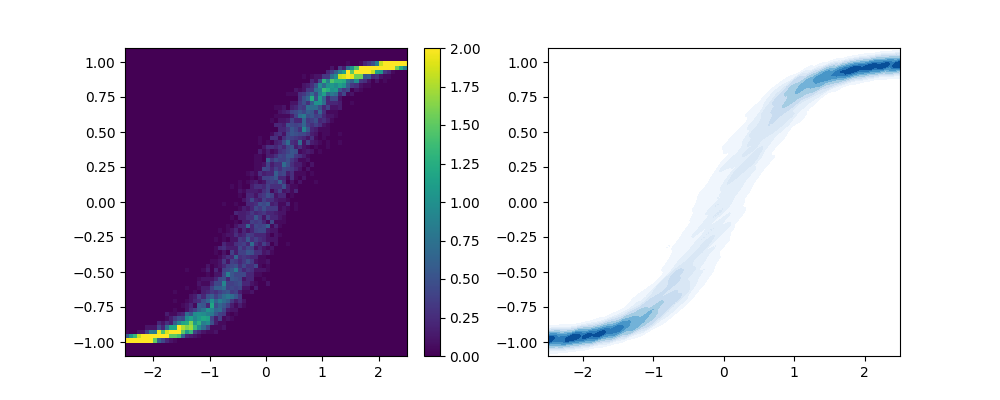
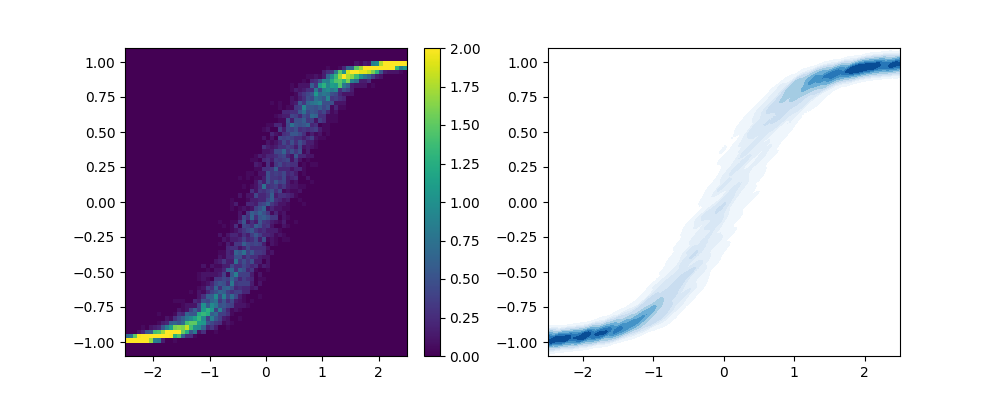
generic commit

diff --git a/scripts/transport/kvae_flow2.py b/scripts/transport/kvae_flow2.py
@@ -699,11 +699,7 @@ def vl_exp(N=10000, n_iter=101, Yd=18, normal=True, exp_name='vl_exp', n_transpo
 
 
 def run():
-    ref_gen = sample_normal
-    target_gen = mgan2
-    N = 3000
-    two_d_exp(ref_gen, target_gen, N, n_iter=50, plt_range=[[-2.5, 2.5], [-1.1, 1.1]], process_funcs=[], skip_idx=1,
-              slice_vals=[-1,0,1], slice_range=[-1.5, 1.5], exp_name='mgan_kflow3', n_transports=300, vmax=2)
+    elden_exp(7000, n_transports=300, n_iter=50)
 
 
 
